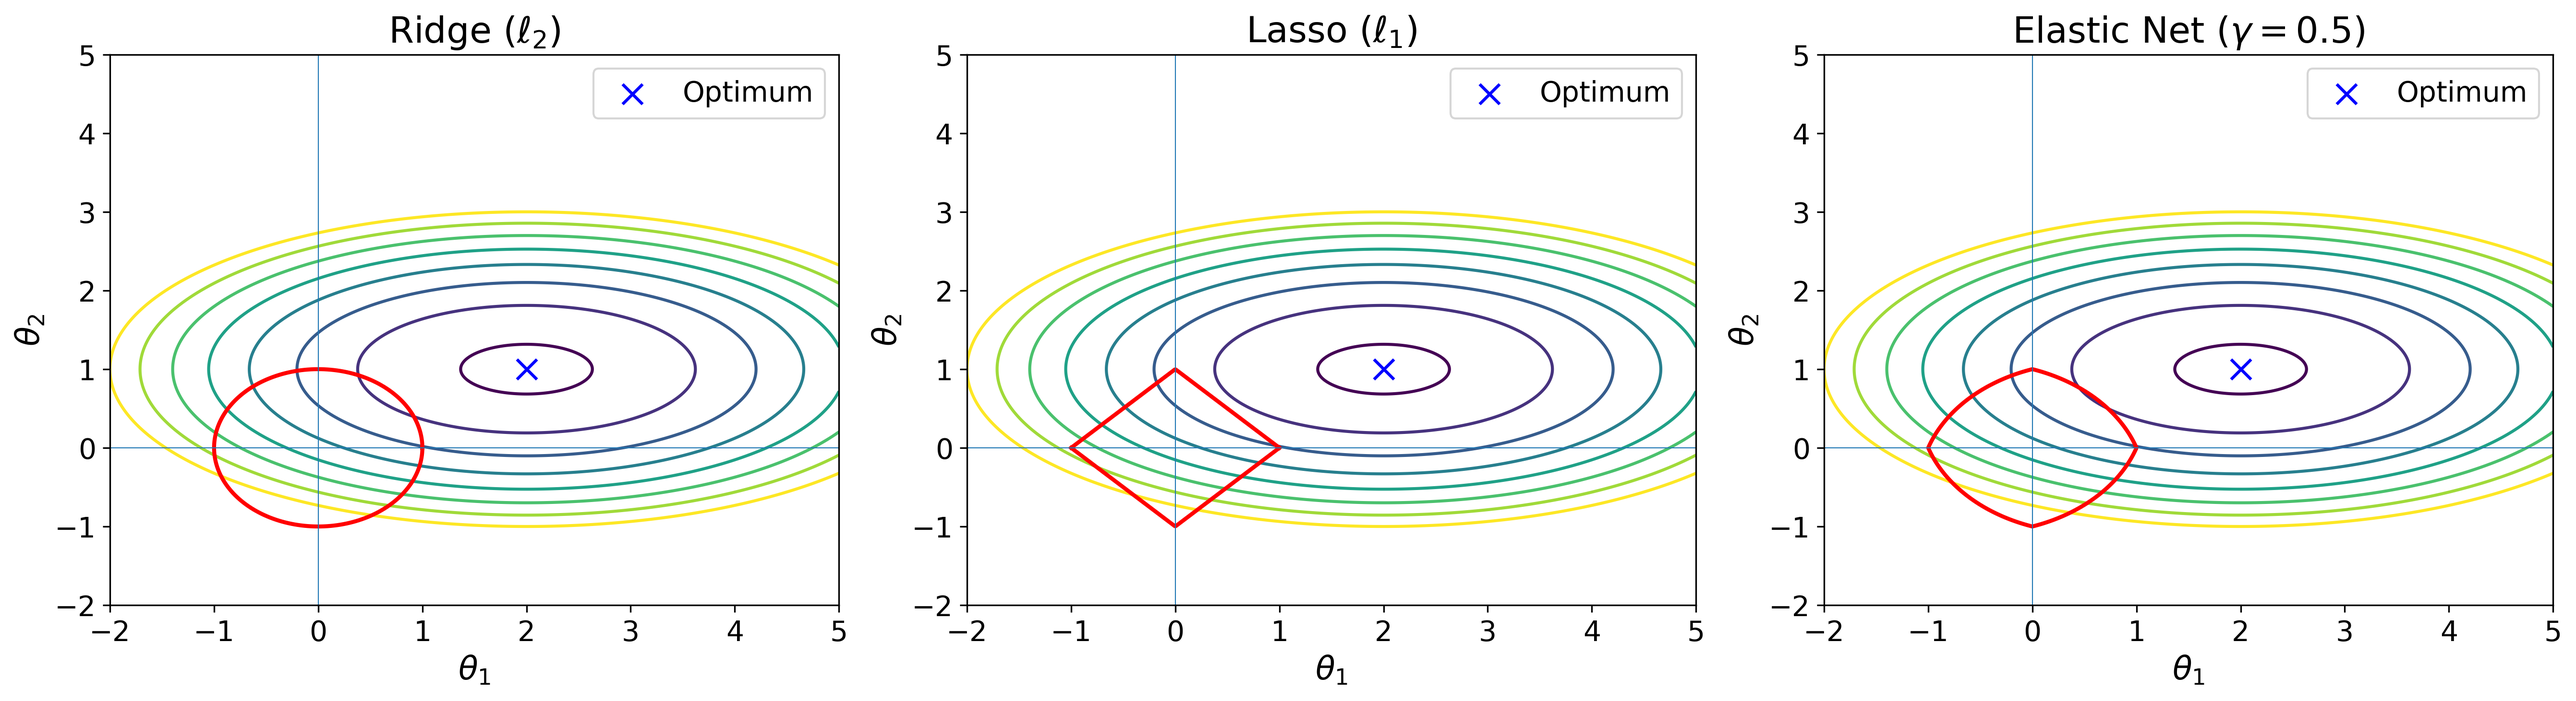
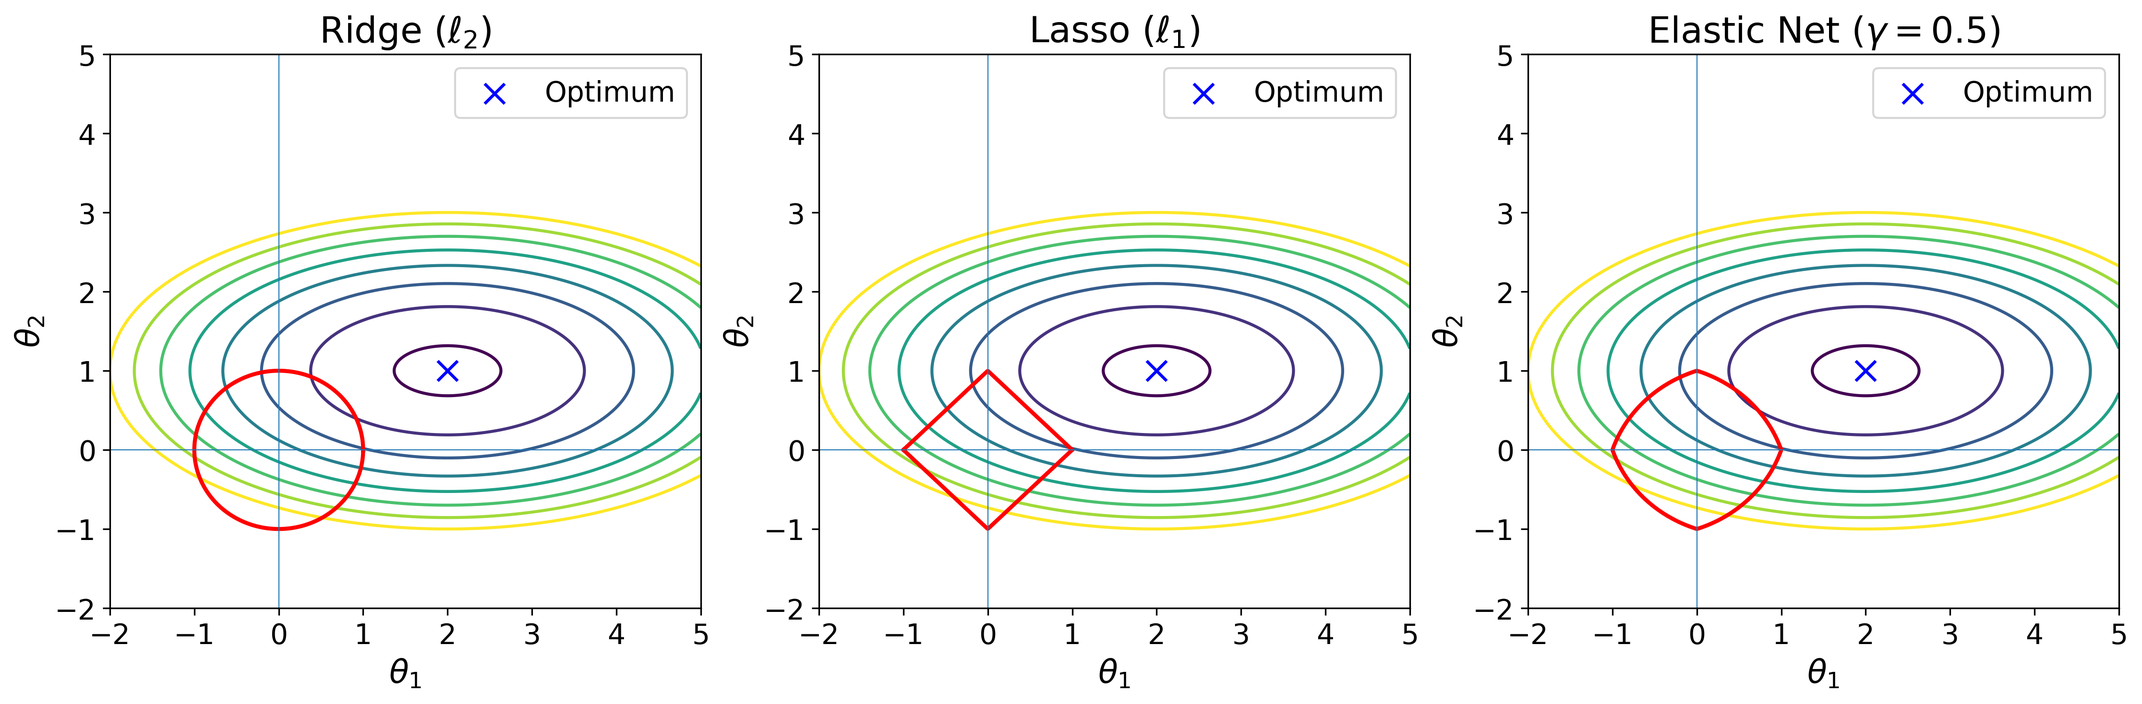
Plots for regularizers

diff --git a/Regularizer_plots.py b/Regularizer_plots.py
@@ -63,8 +63,6 @@ axes[2].legend()
 axes[2].axhline(0, linewidth=0.5)
 axes[2].axvline(0, linewidth=0.5)
 
-plt.tight_layout()
-
 # ensure the directory exists and save
 os.makedirs("figs", exist_ok=True)
 plt.savefig("figs/contours.png", dpi=300, bbox_inches="tight")
